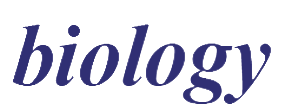
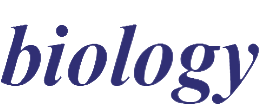
commit

Changed region(s): [[0.0, 0.2162, 0.9962, 0.9459], [0.2113, 0.2162, 0.3019, 0.3514]]

diff --git a/index.html b/index.html
@@ -253,14 +253,14 @@
                 <div class="awards-subheading">Biology - 2024</div>
               </div>
             </div>
-            <div class="awards-logo-wrapper"><img loading="lazy" src="images/biology2.png" alt="" class="awards-logo"></div>
+            <div class="awards-logo-wrapper bio"><img loading="lazy" src="images/biology2.png" alt="" class="awards-logo"></div>
           </a>
           <a href="https://www.mdpi.com/2079-7737/12/11/1398" class="awards-links-wrapper w-inline-block" target="_blank">
             <div>
               <div class="awards-title"><strong>Continuous physiological monitoring of the combined exposure to hypoxia and high cognitive load in military personnel</strong></div>
               <div class="awards-subheading">Biology - 2023</div>
             </div>
-            <div class="awards-logo-wrapper"><img loading="lazy" src="images/biology2.png" alt="" class="awards-logo"></div>
+            <div class="awards-logo-wrapper bio"><img loading="lazy" src="images/biology2.png" alt="" class="awards-logo"></div>
           </a>
           <a href="https://academic.oup.com/milmed/article/188/7-8/e2661/7059657" class="awards-links-wrapper w-inline-block" target="_blank">
             <div>

diff --git a/index.css b/index.css
@@ -3617,7 +3617,7 @@ blockquote {
 
 .awards-logo-wrapper {
   flex: none;
-  justify-content: flex-end;
+  /* justify-content: flex-start; */
   align-items: center;
   width: 8rem;
   height: 3rem;
@@ -4979,9 +4979,10 @@ blockquote {
 
   .awards-links-container {
     flex-direction: column;
-    align-items: flex-start;
+    align-items: left;
     padding-top: 1.25rem;
     padding-bottom: 1.25rem;
+
   }
 
   .project-hero-details-text {
@@ -4994,6 +4995,10 @@ blockquote {
 
   .project-hero-details-title {
     font-size: 1em;
+  }
+
+  .bio {
+    margin-left: -20px;
   }
 
   .project-footer-link {
